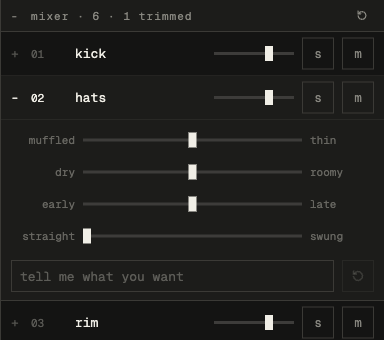
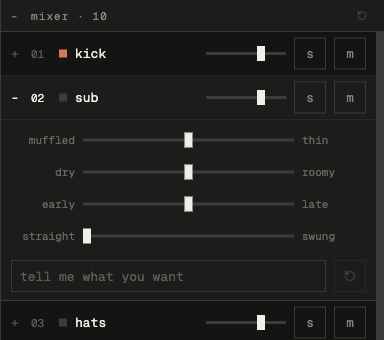
fix: restore the meter and layer activity lights, and gate against dangling vars
Namespacing the palette to --mk-* dropped the generic aliases, but three
components wrote var(--primary), var(--muted), var(--destructive) and var(--card)
from JS. An undefined custom property raises nothing: the declaration is invalid
at computed-value time and the element paints as though nothing was set. So the
master level meter and every per-layer activity light went blank while the page
rendered fine and every test passed.

scripts/themes.mjs now checks every var() in src/ against the tokens it emits and
exits non-zero on a dangling reference, naming the file. Since build runs the gate
first, this class of silent failure cannot ship again. Variables the source
defines for itself, like the rack width, count as defined.

Re-shot the three screenshots on a live studio: a ten-layer track playing, meter
lit, activity lights alive, mascot centred in the editor pane.

diff --git a/src/components/channel-row.tsx b/src/components/channel-row.tsx
@@ -91,9 +91,9 @@ export function ChannelRow({
       onLayerPulse(({ layer }) => {
         if (layer !== name || !dotRef.current) return
         const dot = dotRef.current
-        dot.style.background = 'var(--primary)'
+        dot.style.background = 'var(--mk-accent)'
         setTimeout(() => {
-          if (dotRef.current) dotRef.current.style.background = 'var(--muted)'
+          if (dotRef.current) dotRef.current.style.background = 'var(--mk-n5)'
         }, 90)
       }),
     [name],
@@ -220,7 +220,7 @@ export function ChannelRow({
       >
         {String(index + 1).padStart(2, '0')}
       </span>
-      <span ref={dotRef} className="w-2 h-2 shrink-0" style={{ background: 'var(--muted)' }} />
+      <span ref={dotRef} className="w-2 h-2 shrink-0" style={{ background: 'var(--mk-n5)' }} />
       <span
         className={`flex-1 min-w-0 truncate lowercase ${silenced ? 'text-muted-foreground/50' : ''} ${
           muted ? 'line-through' : ''

diff --git a/src/components/level-meter.tsx b/src/components/level-meter.tsx
@@ -32,7 +32,7 @@ export function LevelMeter() {
           const cell = cells[i] as HTMLElement
           // the last two segments read hot
           cell.style.background =
-            i < lit ? (i >= SEGMENTS - 2 ? 'var(--destructive)' : 'var(--primary)') : 'var(--muted)'
+            i < lit ? (i >= SEGMENTS - 2 ? 'var(--mk-destructive)' : 'var(--mk-accent)') : 'var(--mk-n5)'
         }
       }),
     [],
@@ -41,7 +41,7 @@ export function LevelMeter() {
   return (
     <div ref={barRef} className="flex gap-[2px] shrink-0" title="Master level">
       {Array.from({ length: SEGMENTS }, (_, i) => (
-        <div key={i} className="w-[5px] h-3.5" style={{ background: 'var(--muted)' }} />
+        <div key={i} className="w-[5px] h-3.5" style={{ background: 'var(--mk-n5)' }} />
       ))}
     </div>
   )

diff --git a/src/components/icons.tsx b/src/components/icons.tsx
@@ -133,7 +133,7 @@ export function MoltekIcon({ size = 18, className }: IconProps) {
       {/* Eyes punched through in the surface behind him, which is --card
           everywhere this is used. */}
       {EYES.map((e, i) => (
-        <rect key={i} x={e.x} y={e.y} width={e.w} height={e.h} fill="var(--card)" />
+        <rect key={i} x={e.x} y={e.y} width={e.w} height={e.h} fill="var(--mk-surface)" />
       ))}
     </svg>
   )
